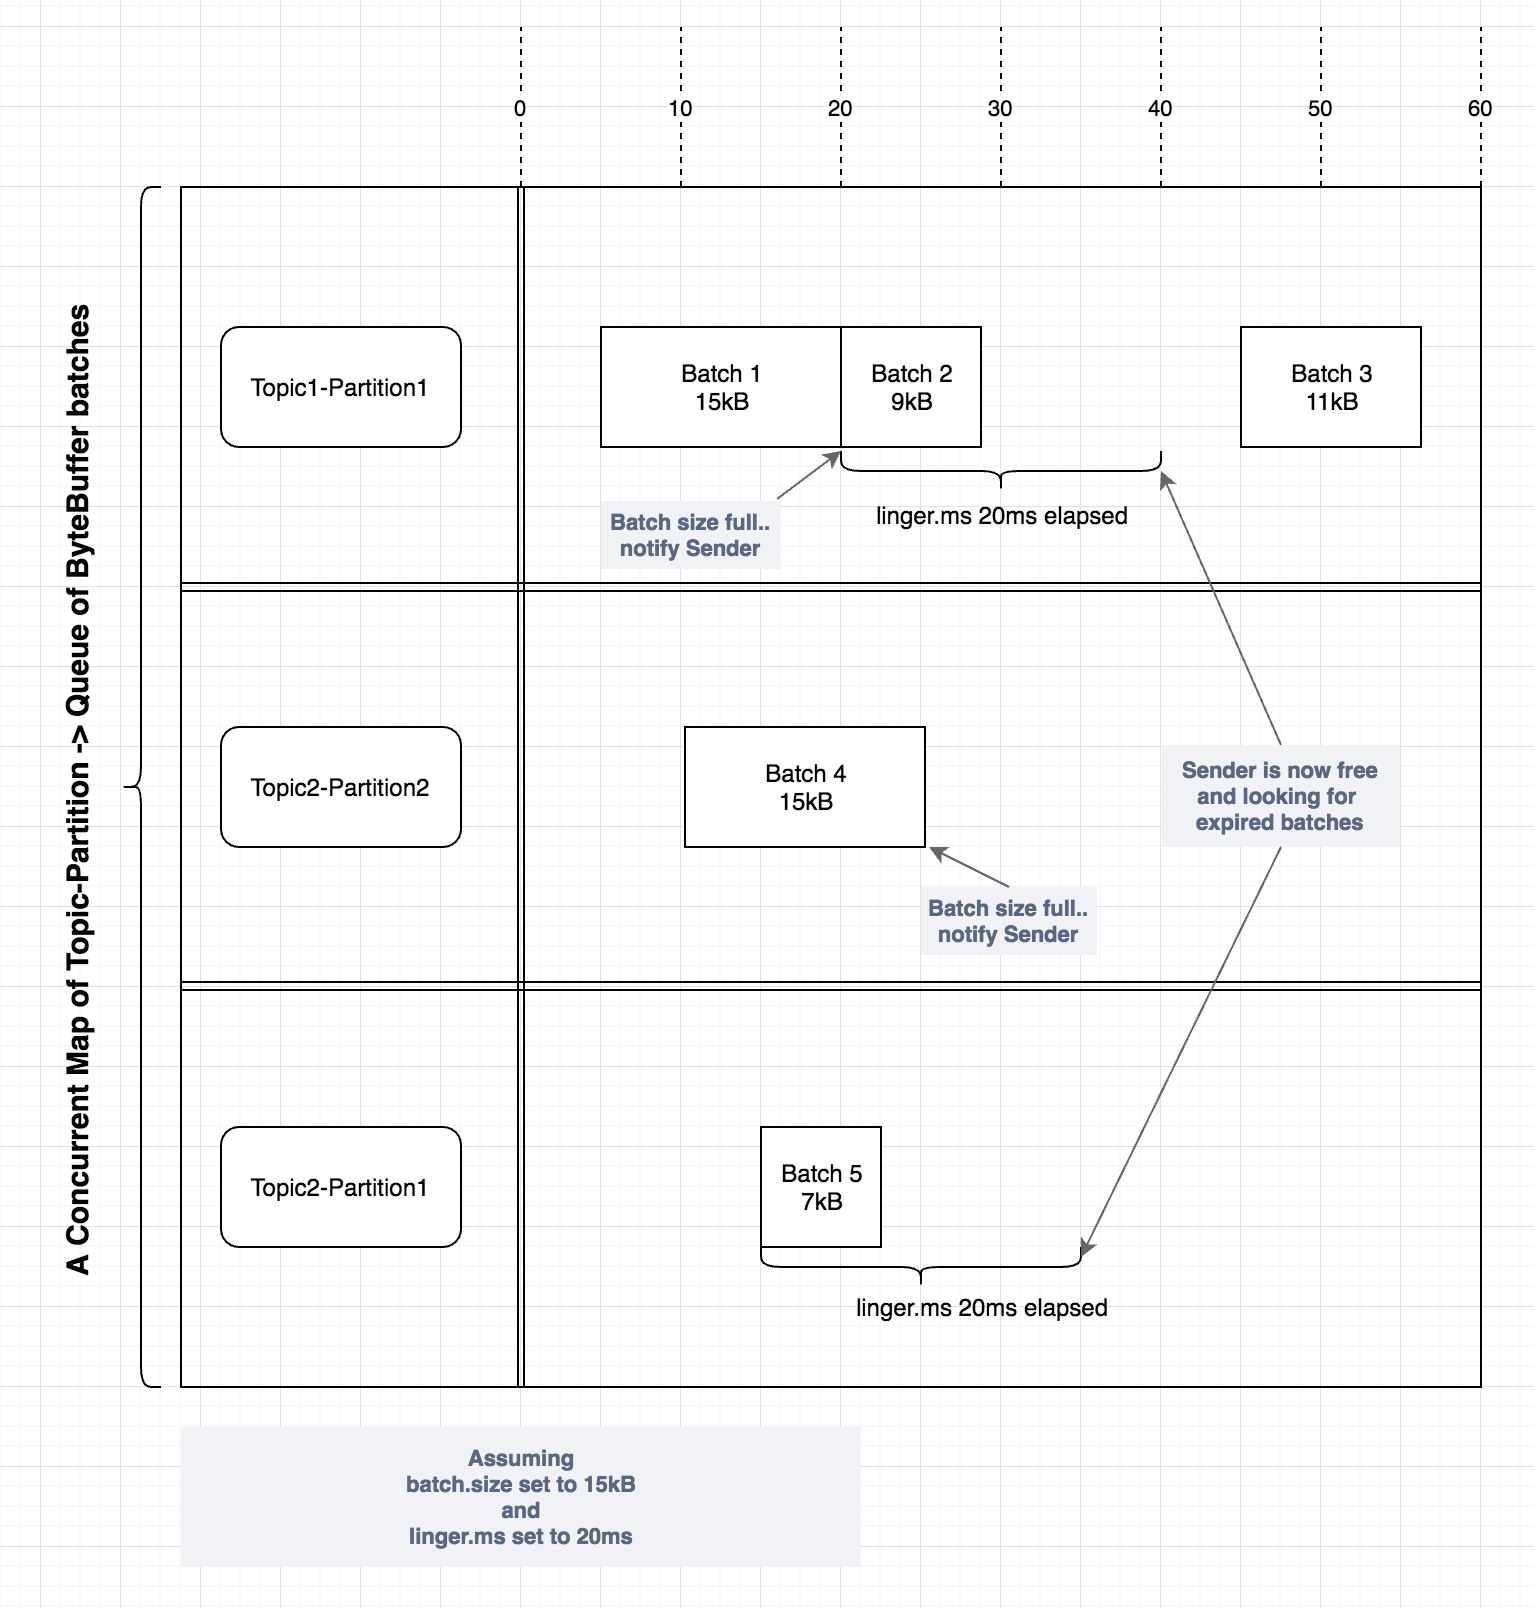
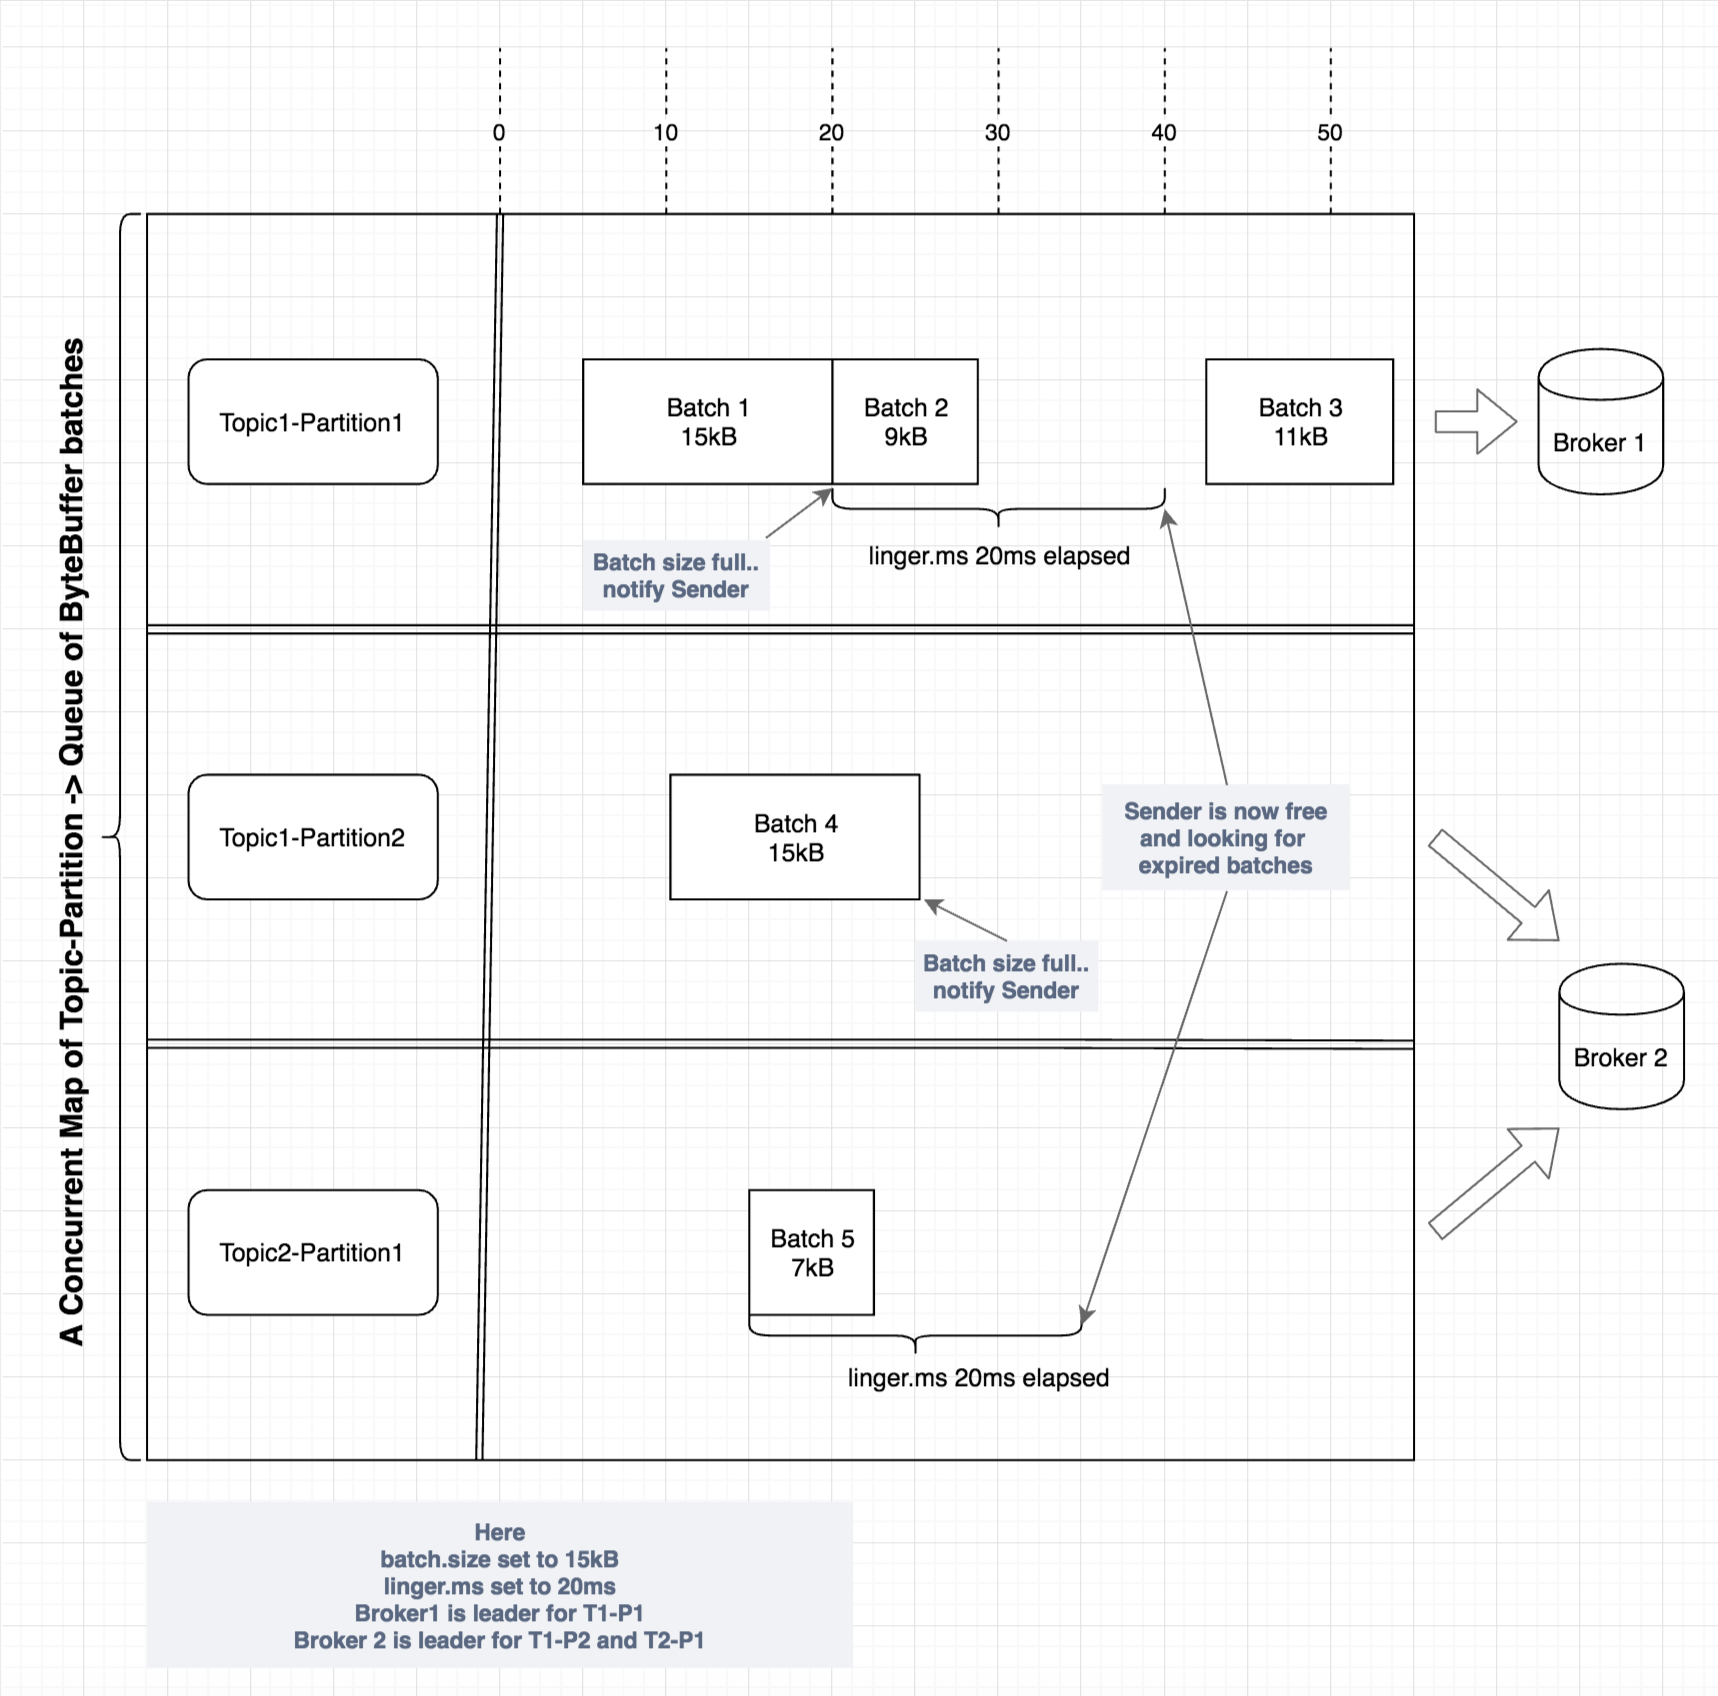
Updating blog post content and added new diagram

diff --git a/2018_07_14_A_spiritual_journey_into_kafka_producer_continued.md b/2018_07_14_A_spiritual_journey_into_kafka_producer_continued.md
@@ -1,2 +1,35 @@
-# A spiritual journey of digging into KafkaProducer - Part 2
+# Digging further into KafkaProducer - Tuning batch.size and linger.ms
+Hai. About a month ago, I posted a deep dive into the [architecture of Kafka Producer](http://blog.vigneshwaran.in/post/174149490531/a-spiritual-journey-of-digging-into-kafka-producer). 
+
+This is a follow-up to that focusing on how the Producer accumulates data in memory and send it to the network. I hope this knowledge can give clarity in tuning producer configurations for better scale.
+
+---
+
+### Kafka is not scaling for us! How can we squeeze more out of it?
+
+![image](https://raw.githubusercontent.com/vigneshwaranr/blog_posts/master/screenshots/A_spiritual_journey_into_kafka_producer/Level3.png)
+
+For any distributed system, it helps to do the following:
+
+* Understand the overview of the system architecture
+* Have a look at [every single configuration](https://kafka.apache.org/documentation/#producerconfigs) and spot what you can tune with safe assumptions at first and then running experiments with different values.
+* If still not helping, then it's time to do such deep diving to find where is the bottleneck.
+
+For Kafka, at a minimum it helps to tweak the following configurations:
+
+* batch.size
+  * Kafka can batch multiple records *for a topic partition* in batches and send batches together instead of sending individual records.
+* linger.ms
+  * This setting will keep the batch around for at least *linger.ms* time since the batch was created.
+  * This means we introduce a latency of that much time at a minimum.
+  * This setting can help if you want to pile up and send bigger batches on a high latency network.
+* max.request.size
+  * This specifies the maximum size of a single request to a broker node.
+  * Because a broker node can be leader for multiple topic-partitions, the producer will group the batches for those partitions together and send them in a single request. 
+  * This setting acts as an upper bound for multiple *batch.size*-s for a broker node
+
+
+###Quite terse.. Not helping! >,<
+![image](https://raw.githubusercontent.com/vigneshwaranr/blog_posts/master/screenshots/A_spiritual_journey_into_kafka_producer/Level4.png)
+
 
